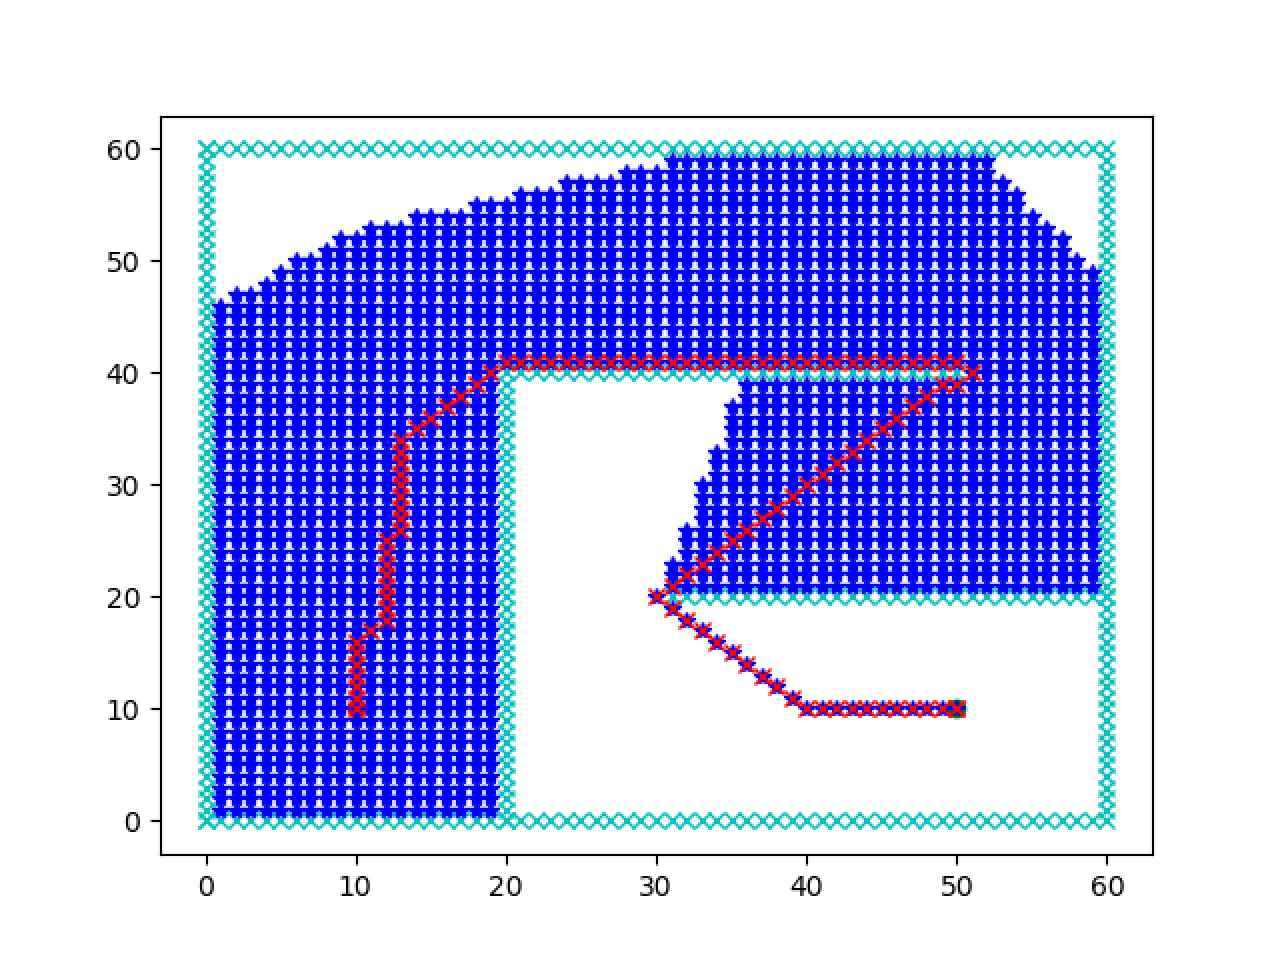
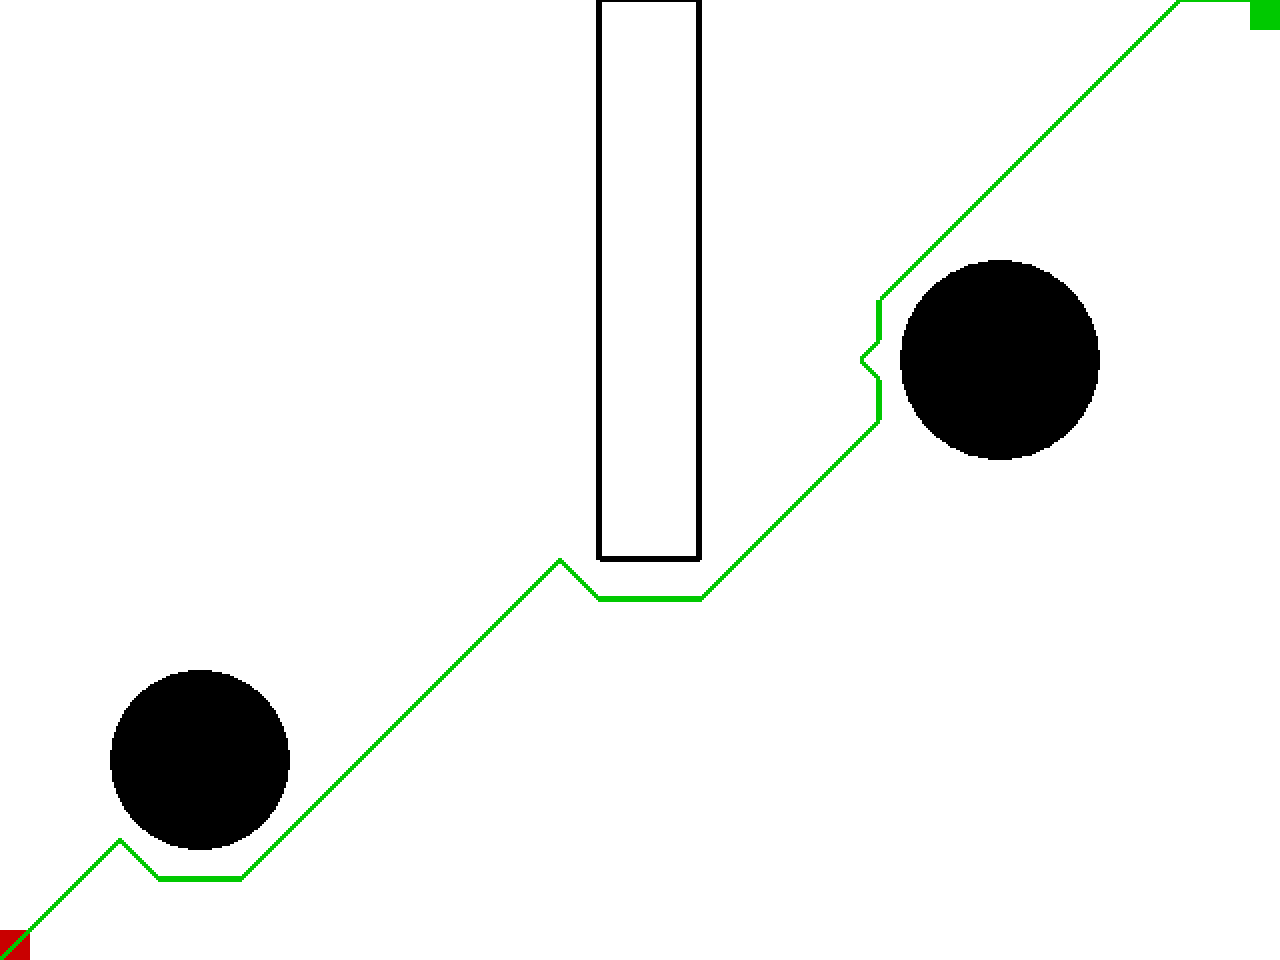
update astar

diff --git a/PathPlanning/AStar/AStar.py b/PathPlanning/AStar/AStar.py
@@ -1,160 +1,94 @@
 """
 A* path planning implementation with python
 """
-import math
-from collections import deque
-import matplotlib.pyplot as plt
+from PathPlanning.utils import *
 
-grid_size = 1.0      # grid resolution
-robot_size = 1.0     # robot size
-obstacle_x = []      # coordinate x of obstacles
-obstacle_y = []      # coordinate y of obstacles
-motions = [
-    [1,0,1],                # right          cost: 1
-    [0,1,1],                # up             cost: 1
-    [-1,0,1],               # left           cost: 1
-    [0,-1,1],               # down           cost: 1
-    [-1,-1,math.sqrt(2)],   # left and down  cost: 2^0.5
-    [-1,1,math.sqrt(2)],    # left and up    cost: 2^0.5
-    [1,-1,math.sqrt(2)],    # right and down cost: 2^0.5
-    [1,1,math.sqrt(2)],     # right and up   cost: 2^0.5
-]
+class AStarPlanner(PathPlanner):
+    def __init__(self, map, iterations=1e4, step_size=5):
+        PathPlanner.__init__(self)
+        self.map = map
+        self.iterations = iterations
+        self.step_size = step_size
+        self.motions = [
+            Vector(1, 0),                # right          cost: 1
+            Vector(0, 1),                # up             cost: 1
+            Vector(-1, 0),               # left           cost: 1
+            Vector(0, -1),               # down           cost: 1
+            Vector(-1, -1),              # left and down  cost: 2^0.5
+            Vector(-1, 1),               # left and up    cost: 2^0.5
+            Vector(1, -1),               # right and down cost: 2^0.5
+            Vector(1, 1),                # right and up   cost: 2^0.5
+        ]
+        self.open_list = []
+        self.close_list = []
 
-class Node:
-    """
-    smallest unit of the grid map
-    """
-    def __init__(self, x, y, cost, parent):
-        self.x = x
-        self.y = y
-        self.cost = cost
-        self.parent = parent
+    def plan(self, start, target):
+        self.open_list = []
+        self.close_list = []
+        self.open_list.append(Node(start))
 
-def calculate_heuristic(node1, node2):
-    """
-    calculate the heuristic evaluation from node1 to node2
-    :param node1: start node
-    :param node2: goal node
-    :return: the heuristic evaluation
-    """
-    return abs(node1.x - node2.x) + abs(node1.y - node2.y)
+        for iteration in range(int(self.iterations)):
+            current_node = min(self.open_list, key=lambda node: node.cost + self.heuristic_func(node.pos, target))
 
-def a_star_planning(start_x, start_y, goal_x, goal_y, obstacle_x, obstacle_y):
-    """
-    A* path planning implementation
-    """
-    # extract the index of start node, goal node and obstacles
-    start = Node(round(start_x/grid_size), round(start_y/grid_size), 0.0, -1)
-    goal = Node(round(goal_x/grid_size), round(goal_y/grid_size), 0.0, -1)
-    obstacle_x = [round(obs_x / grid_size) for obs_x in obstacle_x]
-    obstacle_y = [round(obs_y / grid_size) for obs_y in obstacle_y]
+            if current_node.pos.dist(target) < self.step_size:
+                print("final")
+                finalNode = Node(pos=target, parent=current_node, cost=current_node.cost + current_node.pos.dist(target))
+                self.close_list.append(finalNode)
+                self.generate_final_path()
+                break
 
-    obstacles = [[obstacle_x[i], obstacle_y[i]] for i in range(len(obstacle_x))]
+            # remove from open list
+            self.open_list.remove(current_node)
+            # add to close list
+            self.close_list.append(current_node)
+            # explore
+            for motion in self.motions:
+                newNode = Node(pos=current_node.pos + motion*self.step_size, parent=current_node, cost=current_node.cost + motion.mod()*self.step_size)
 
-    # plot the start node and goal node, and obstacles
-    plt.plot(start.x, start.y, "ro")
-    plt.plot(goal.x, goal.y, "go")
-    for obs in obstacles:
-        plt.plot(obs[0], obs[1], "xc")
-    plt.pause(0.001)
-    # time.sleep(10)
+                # in close list
+                if self.find_in_close_list(newNode):
+                    continue
+                # outside the map
+                if self.map.out_of_map(newNode.pos):
+                    continue
+                # meet obstacle
+                if self.check_obstacle(newNode.pos):
+                    continue
 
-    # create the open list and close list to store nodes
-    openset, closeset = deque(), deque()
-    openset.append(start)
+                # add to open list
+                if self.find_in_open_list(newNode):
+                    sameNode = self.find_in_open_list(newNode)
+                    if sameNode.cost > newNode.cost:
+                        sameNode = newNode
+                else:
+                    self.open_list.append(newNode)
 
-    while True:
-        # find out the min f node to explore
-        current_node = min(openset,
-                         key=lambda node: node.cost + calculate_heuristic(node,goal))
+    def heuristic_func(self, pos, target):
+        return abs(pos.x - target.x) + abs(pos.y - target.y)
 
-        plt.plot(current_node.x, current_node.y, "b*")
-        if len(closeset) % 10 == 0:
-            plt.pause(0.001)
+    def find_in_close_list(self, node):
+        for candidate in self.close_list:
+            if candidate.pos == node.pos:
+                return candidate
+        return None
 
-        if current_node.x == goal.x and current_node.y == goal.y:
-            print("Congratulations! You have found the goal!")
-            goal.parent = current_node
-            break
+    def find_in_open_list(self, node):
+        for candidate in self.open_list:
+            if candidate.pos == node.pos:
+                return candidate
+        return None
 
-        # Remove it from the open list
-        openset.remove(current_node)
-        # Add it to the close list
-        closeset.append(current_node)
+    def check_obstacle(self, pos):
+        for obs in self.map.obstacles:
+            if obs.check_collision(pos, 10):
+                return True
+        return False
 
-        # Explore the neighbour
-        for motion in motions:
-            node = Node(current_node.x + motion[0],
-                        current_node.y + motion[1],
-                        current_node.cost + motion[2],
-                        current_node)
-
-            # ignore it if it is in the close list
-            flag = False
-            for item in closeset:
-                if item.x == node.x and item.y == node.y:
-                    flag = True
-                    break
-            if flag:
-                continue
-            # ignore it if it is obstacle
-            flag = False
-            for obstacle in obstacles:
-                if obstacle[0] == node.x and obstacle[1] == node.y:
-                    flag = True
-                    break
-            if flag:
-                continue
-            # update its parent if it is the open list
-            flag = True
-            for item in openset:
-                if item.x == node.x and item.y == node.y:
-                    flag = False
-                    # if closer, update the parent
-                    if node.cost <= item.cost:
-                        item.cost = node.cost
-                        item.parent = node.parent
-                    break
-            # add to the open list if it is not in the open list
-            if flag:
-                openset.append(node)
-
-    # generate the final path
-    while True:
-        plt.plot(goal.x, goal.y, "rx")
-        if goal.parent == -1:
-            break
-        else:
-            goal = goal.parent
-    plt.show()
-
-
-if __name__ == '__main__':
-    start_x = 10.0
-    start_y = 10.0
-    goal_x = 50.0
-    goal_y = 10.0
-
-    for i in range(60):
-        obstacle_x.append(i)
-        obstacle_y.append(0.0)
-    for i in range(60):
-        obstacle_x.append(60.0)
-        obstacle_y.append(i)
-    for i in range(61):
-        obstacle_x.append(i)
-        obstacle_y.append(60.0)
-    for i in range(61):
-        obstacle_x.append(0.0)
-        obstacle_y.append(i)
-    for i in range(40):
-        obstacle_x.append(20.0)
-        obstacle_y.append(i)
-    for i in range(30):
-        obstacle_x.append(60.0-i)
-        obstacle_y.append(20.0)
-    for i in range(31):
-        obstacle_x.append(50.0-i)
-        obstacle_y.append(40.0)
-
-    a_star_planning(start_x, start_y, goal_x, goal_y, obstacle_x, obstacle_y)
+    def generate_final_path(self):
+        self.finalPath = []
+        self.finalPath.append(self.close_list[-1].pos)
+        currentNode = self.close_list[-1]
+        while currentNode.parent is not None:
+            currentNode = currentNode.parent
+            self.finalPath.append(currentNode.pos)
+        self.finalPath.reverse()

diff --git a/PathPlanning/AStar/run.py b/PathPlanning/AStar/run.py
@@ -1,0 +1,21 @@
+from PathPlanning.AStar import AStarPlanner
+from PathPlanning.utils import *
+
+def main():
+    map = Map(top=480, down=0, left=0, right=640)
+    map.add_obstacle(CircleObstacle(pos=Point(500, 300), radius=50))
+    map.add_obstacle(CircleObstacle(pos=Point(100, 100), radius=45))
+    map.add_obstacle(RectangleObstacle(top=480, down=200, left=300, right=350))
+    astarPlanner = AStarPlanner(map=map, step_size=10)
+    start = Point(0, 0)
+    end = Point(640, 480)
+    while map.is_open:
+        astarPlanner.plan(start=start, target=end)
+        map.add_geometry(type='point', pos=start.tuple(), size=30, color=(100, 0, 0))
+        map.add_geometry(type='point', pos=end.tuple(), size = 30, color=(0, 100, 0))
+        for i in range(len(astarPlanner.finalPath)-1):
+            map.add_geometry(type='line', start=astarPlanner.finalPath[i].tuple(), end=astarPlanner.finalPath[i+1].tuple(), color=(0, 100, 0))
+        map.render()
+
+if __name__ == '__main__':
+    main()

diff --git a/PathPlanning/geometry.py b/PathPlanning/geometry.py
@@ -32,6 +32,9 @@ class Vector(object):
     def mod(self):
         return math.sqrt(pow(self.x, 2) + pow(self.y, 2))
 
+    def __mul__(self, other):
+        return Vector(other*self.x, other*self.y)
+
 
 def Polar2Vector(dist, theta):
     return Vector(dist*math.cos(theta), dist*math.sin(theta))

diff --git a/PathPlanning/AStar/__init__.py b/PathPlanning/AStar/__init__.py
@@ -1,0 +1,1 @@
+from PathPlanning.AStar.AStar import AStarPlanner
